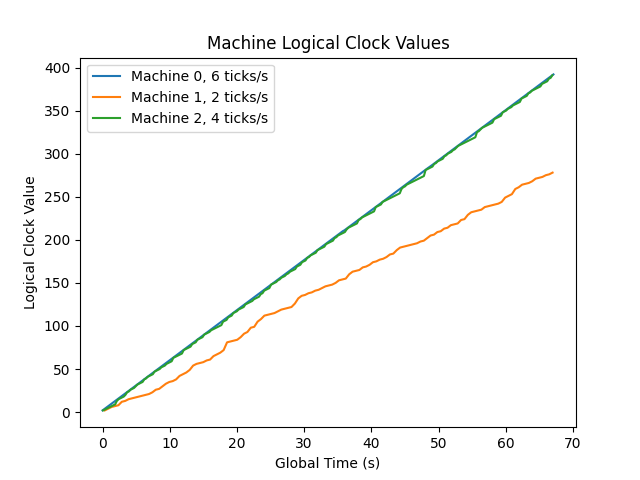
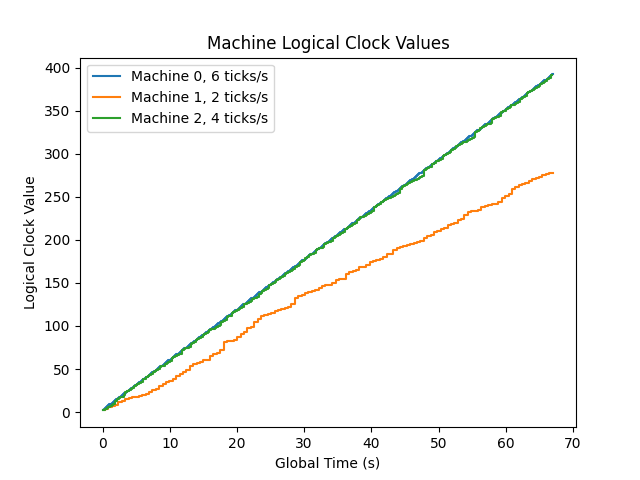
make charts a little nicer

diff --git a/viz.py b/viz.py
@@ -89,7 +89,7 @@ if __name__ == "__main__":
         process_clock_updates = get_clock_updates(process_filenames[i], st)
         xs = [x[0] for x in process_clock_updates]
         ys = [x[1] for x in process_clock_updates]
-        plt.plot(xs, ys, label=f"Machine {i}, {ticks[i]} ticks/s")
+        plt.step(xs, ys, label=f"Machine {i}, {ticks[i]} ticks/s")
     plt.legend(loc=2)
     plt.xlabel("Global Time (s)")
     plt.ylabel("Logical Clock Value")
